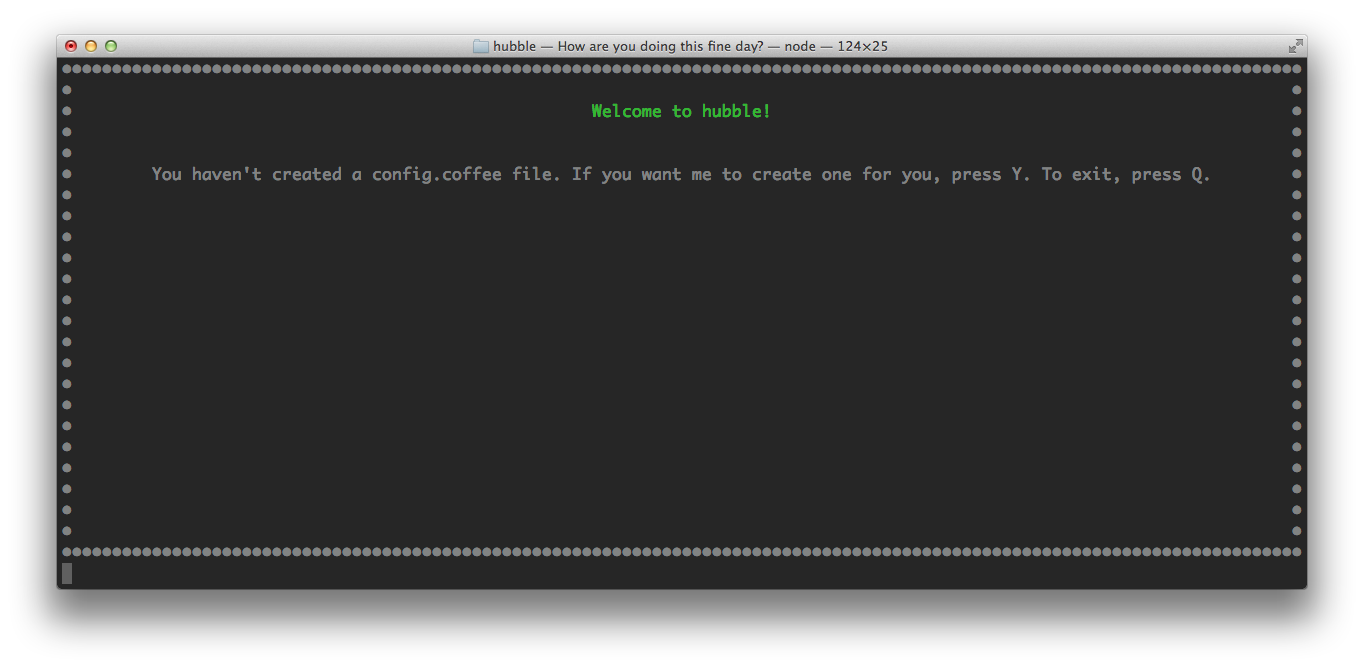
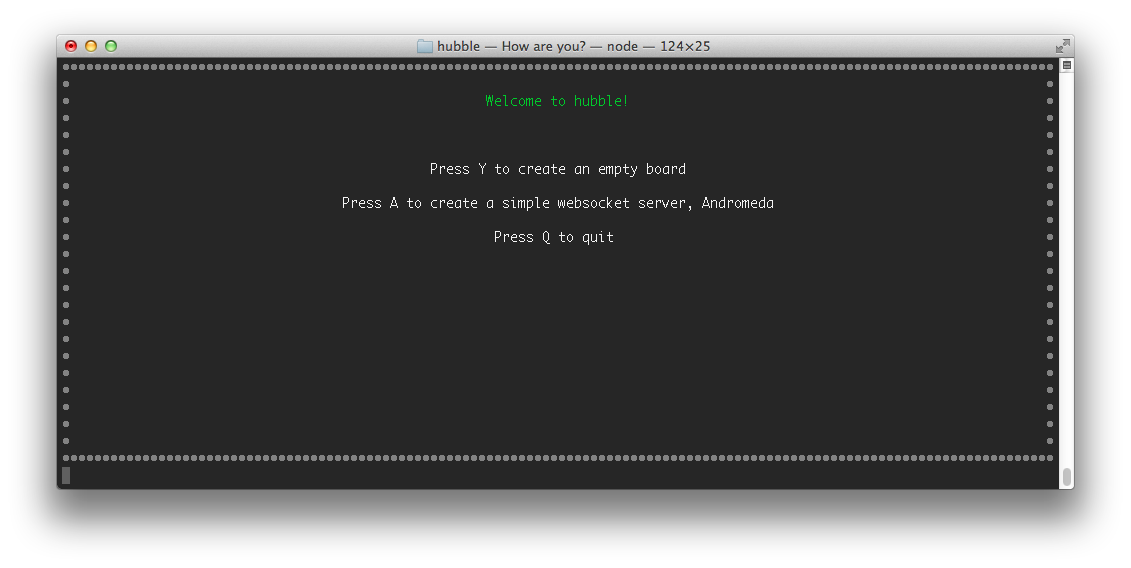
added andromeda (web socket server), updated readme, bumped version

Changed region(s): [[0.0309, 0.0599, 0.9903, 0.9278], [0.0928, 0.2394, 0.8974, 0.2993], [0.4332, 0.1496, 0.557, 0.1796]]

diff --git a/README.md b/README.md
@@ -1,5 +1,5 @@
-Hubble
-======
+<img alt='hubble' src='http://i.imgur.com/hlgNUrw.png?1' border='0' />
+<br/>
 
 Hubble is a dashboard that displays in a terminal with any data you want. It allows you to setup thresholds if a number goes above/under a certain value. You can have any webhooks, programs, workers, scripts, etc just send an http post request (or setup an api endpoint to poll) and it will get placed on the dashboard. You can also just write a coffee file and have it load from disk. Be creative!!
 
@@ -21,14 +21,21 @@ Quick Start
 First Launch
 ------------
 
-Upon your first launch of Hubble, you will see a screen like below
+Upon your first launch of Hubble, you will see the screen below
 <img src="https://raw.github.com/jaymedavis/hubble/master/screenshots/empty-dashboard.png" />
 
-From this screen, press Y to create config.coffee in the current directory. This file contains the server and dashboard configuration. After this file is created, your board will automatically reload.
+From this screen, press Y to create an empty dashboard. You can also press A to create an Andromeda server (simple websocket server) - more below. Either option will create a config.coffee in the current directory. After this file is created, your board will automatically reload. You can edit config.coffee to customize your board. :)
+
+Empty Dashboard
+---------------
 
 <img src="https://raw.github.com/jaymedavis/hubble/master/screenshots/new-dashboard.png" />
 
-You now edit config.coffee to customize your board. :)
+Andromeda
+---------
+
+Andromeda is a websocket server that accepts any number of connections and relays messages to all clients connected. You can configure which port to connect to from config.coffee (default 1550).
+<img src="https://raw.github.com/jaymedavis/hubble/master/screenshots/andromeda.png" />
 
 Populating your dashboard
 -------------------------
